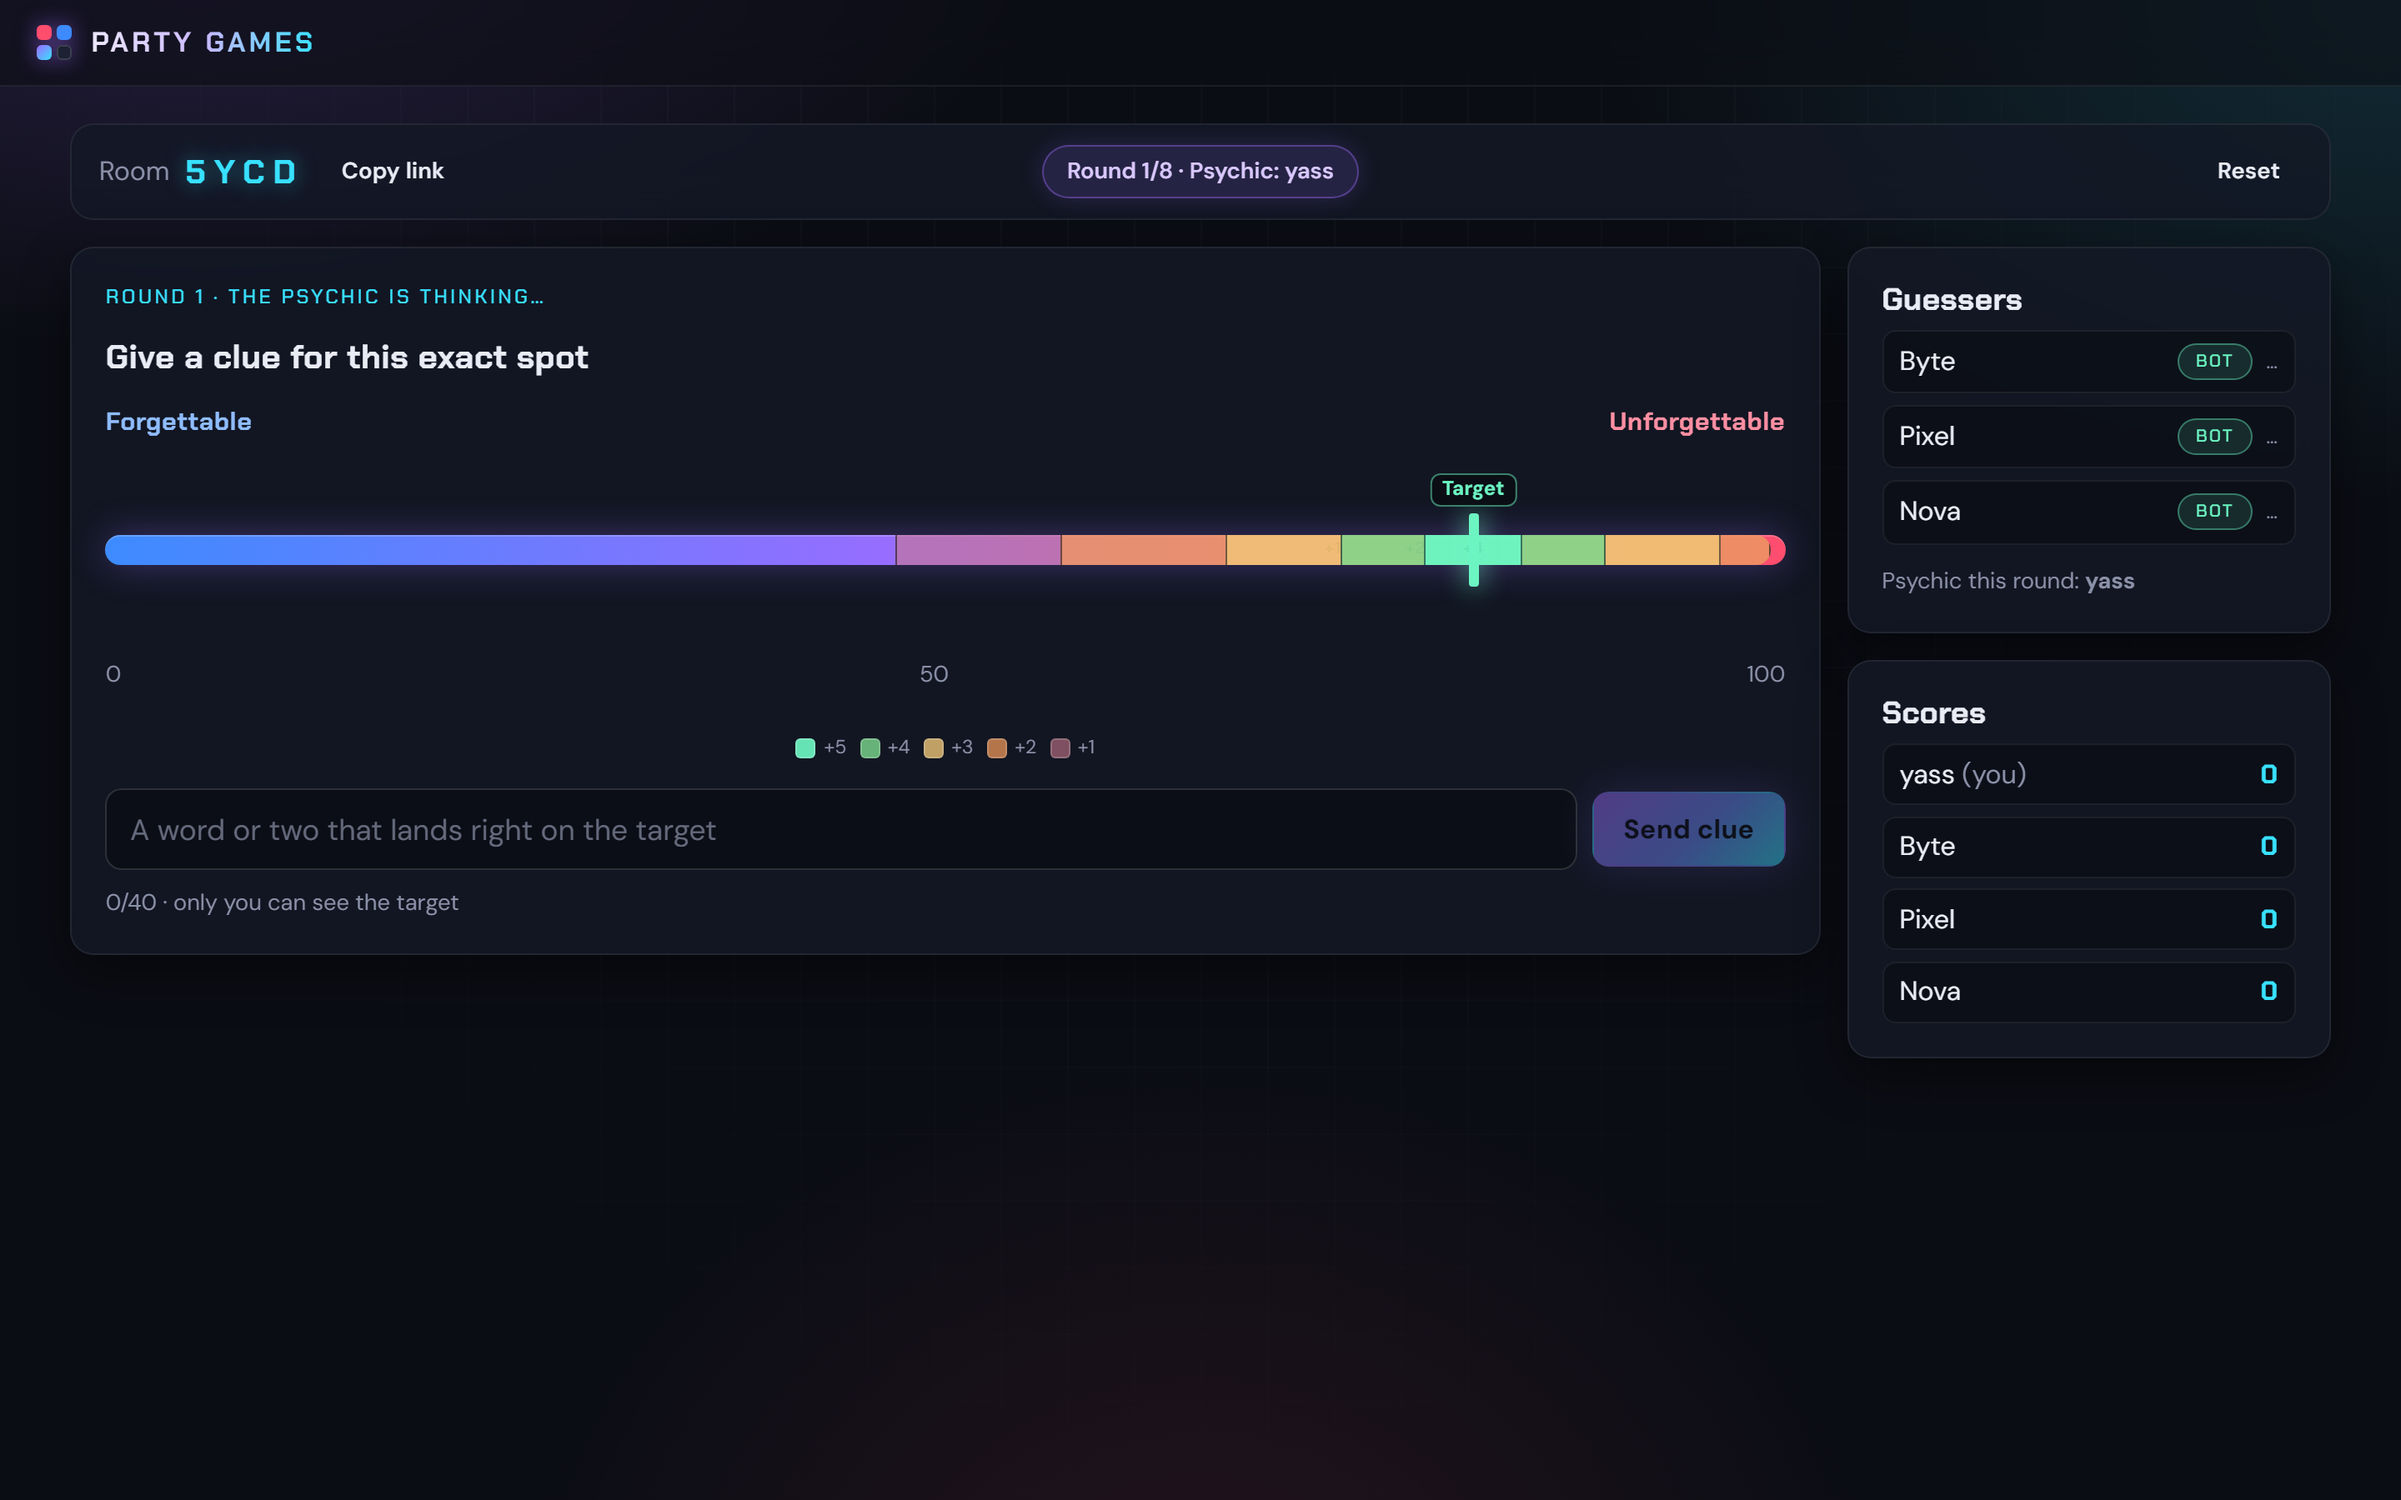
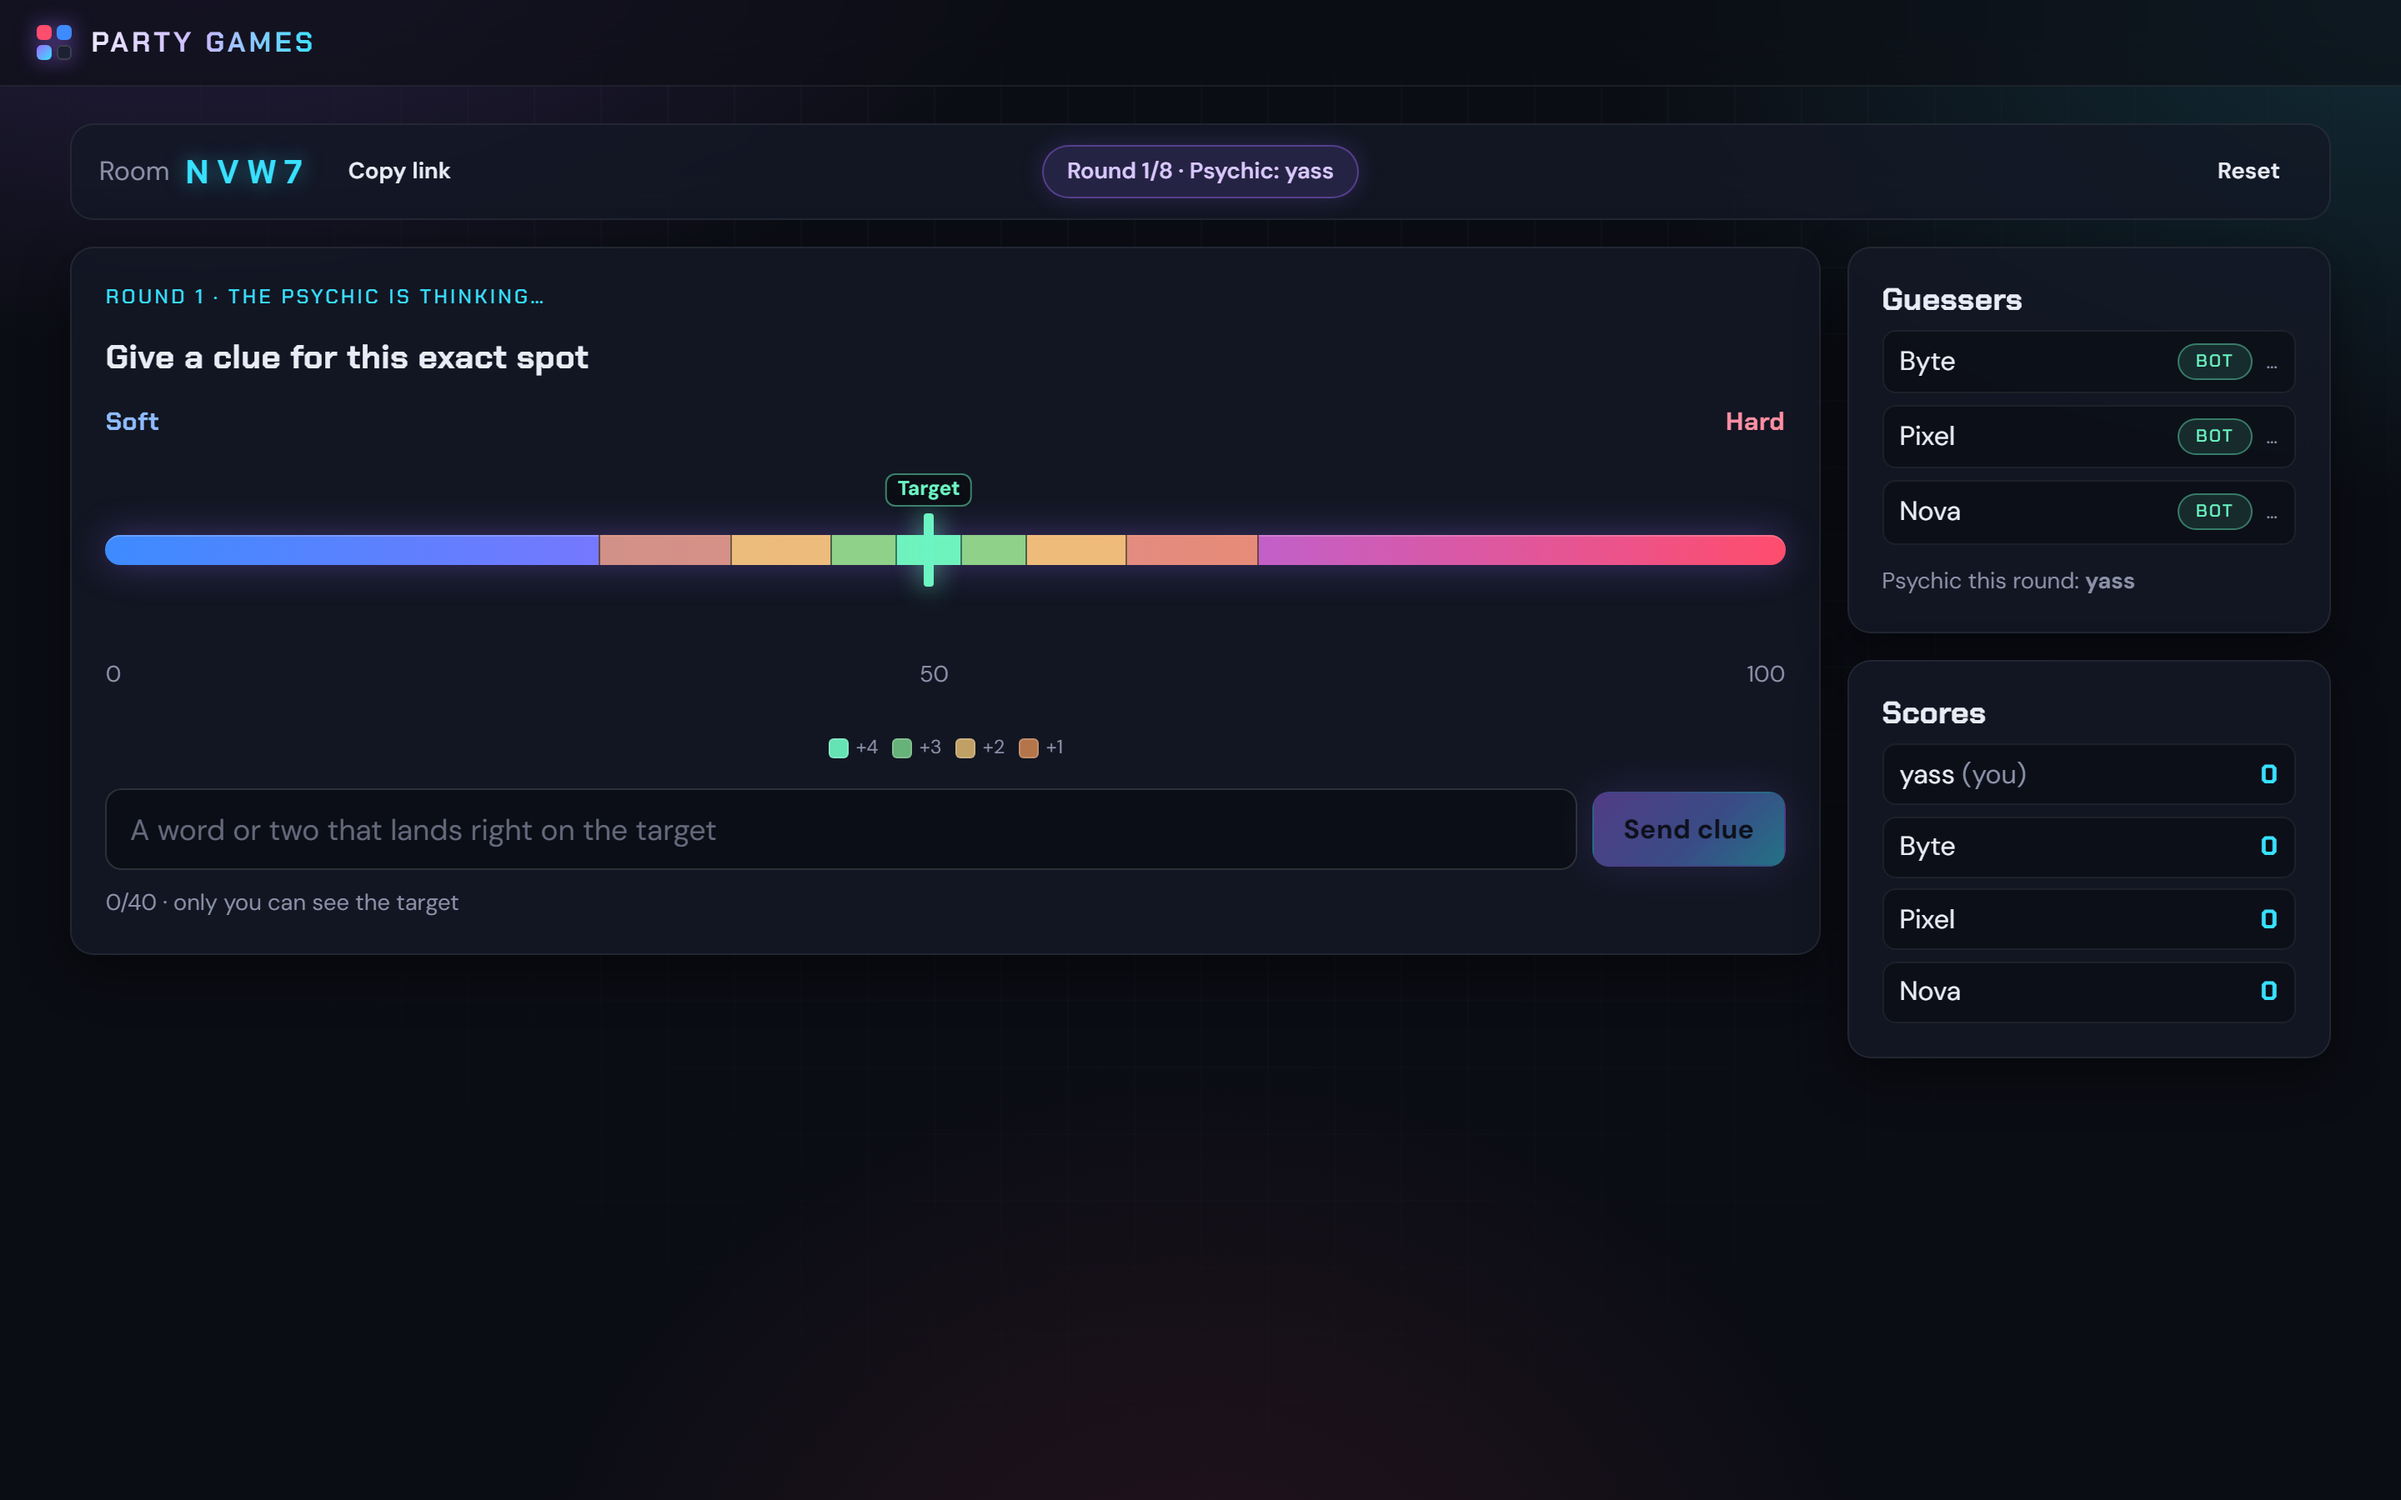
Spectrum: tighter scoring bands, max +4
Four bands instead of five, and much narrower: the bullseye is 2 wide
and scoring stops at 20, so only about 40% of the scale pays anything
(it was 70%). A clue now has to be precise to score well.

  <=2  +4      <=6  +3      <=12 +2      <=20 +1      else 0

The bands drawn on the bar, the legend, the rules page and the README
screenshot all follow the same table.

The Spectrum e2e kept its own copy of the scoring for assertions, which
silently disagreed once the table changed. It now reads the real table
out of logic.ts and fails loudly on any drift.

diff --git a/shared/spectrum/logic.test.ts b/shared/spectrum/logic.test.ts
@@ -96,13 +96,12 @@ describe('startGame / startRound', () => {
    * If the scoring changes, the picture must change with it — this test is the
    * tripwire that says so.
    */
-  it('scores by distance in five bands: 3, 8, 15, 25, 35', () => {
+  it('scores by distance in four tight bands: 2, 6, 12, 20', () => {
     const bands: Array<[number, number]> = [
-      [3, 5],
-      [8, 4],
-      [15, 3],
-      [25, 2],
-      [35, 1],
+      [2, 4],
+      [6, 3],
+      [12, 2],
+      [20, 1],
     ];
     for (const [reach, points] of bands) {
       expect(pointsForDistance(reach)).toBe(points);
@@ -110,8 +109,9 @@ describe('startGame / startRound', () => {
       // One step past the edge drops into the next band down.
       expect(pointsForDistance(reach + 1)).toBe(points - 1);
     }
-    expect(pointsForDistance(0)).toBe(5);
-    expect(pointsForDistance(36)).toBe(0);
+    expect(pointsForDistance(0)).toBe(4);
+    // Past the last band a guess is worth nothing: most of the scale is dead.
+    expect(pointsForDistance(21)).toBe(0);
     expect(pointsForDistance(100)).toBe(0);
   });
 
@@ -194,19 +194,19 @@ describe('guessing', () => {
     const s = guessing();
     const target = s.round!.target;
     const [g1, g2, g3] = s.round!.guesserIds;
-    let n = lockGuess(setGuess(s, g1, target), g1, T0); // 5 points
-    n = lockGuess(setGuess(n, g2, Math.min(100, target + 10)), g2, T0); // 3 points (or fewer if clamped)
+    let n = lockGuess(setGuess(s, g1, target), g1, T0); // exact hit: 4 points
+    n = lockGuess(setGuess(n, g2, Math.min(100, target + 10)), g2, T0); // 2 points (or fewer if clamped)
     expect(n.phase).toBe('guessing');
     n = lockGuess(setGuess(n, g3, target > 50 ? 0 : 100), g3, T0 + 5000); // 0 points (distance >= 50)
     expect(n.phase).toBe('reveal');
     const r = n.round!;
-    expect(r.points![g1]).toBe(5);
+    expect(r.points![g1]).toBe(4);
     expect(r.points![g2]).toBe(pointsForDistance(Math.min(100, target + 10) - target));
     expect(r.points![g3]).toBe(0);
     const avg = (r.points![g1] + r.points![g2] + r.points![g3]) / 3;
     expect(r.psychicPoints).toBe(Math.round(avg));
     expect(n.scores[r.psychicId]).toBe(Math.round(avg));
-    expect(n.scores[g1]).toBe(5);
+    expect(n.scores[g1]).toBe(4);
     expect(n.roundsPlayed).toBe(1);
     expect(r.revealEndsAt).toBe(T0 + 5000 + REVEAL_SECONDS * 1000);
   });
@@ -229,26 +229,24 @@ describe('guessing', () => {
     expect(guessTimeUp(n, T0 + 59_000)).toBe(n);
     const r = guessTimeUp(n, T0 + 60_000);
     expect(r.phase).toBe('reveal');
-    expect(r.round!.points![g1]).toBe(5);
+    expect(r.round!.points![g1]).toBe(4);
     expect(Object.values(r.round!.points!).filter((p) => p === 0)).toHaveLength(2);
     // Psychic average only counts guessers who actually guessed.
-    expect(r.round!.psychicPoints).toBe(5);
+    expect(r.round!.psychicPoints).toBe(4);
   });
 });
 
 describe('scoring table', () => {
   it('maps distance to points', () => {
-    expect(pointsForDistance(0)).toBe(5);
-    expect(pointsForDistance(3)).toBe(5);
-    expect(pointsForDistance(-4)).toBe(4);
-    expect(pointsForDistance(8)).toBe(4);
-    expect(pointsForDistance(9)).toBe(3);
-    expect(pointsForDistance(15)).toBe(3);
-    expect(pointsForDistance(16)).toBe(2);
-    expect(pointsForDistance(25)).toBe(2);
-    expect(pointsForDistance(26)).toBe(1);
-    expect(pointsForDistance(35)).toBe(1);
-    expect(pointsForDistance(36)).toBe(0);
+    expect(pointsForDistance(0)).toBe(4);
+    expect(pointsForDistance(2)).toBe(4);
+    expect(pointsForDistance(-3)).toBe(3);
+    expect(pointsForDistance(6)).toBe(3);
+    expect(pointsForDistance(7)).toBe(2);
+    expect(pointsForDistance(12)).toBe(2);
+    expect(pointsForDistance(13)).toBe(1);
+    expect(pointsForDistance(20)).toBe(1);
+    expect(pointsForDistance(21)).toBe(0);
     expect(pointsForDistance(100)).toBe(0);
   });
 });

diff --git a/client/src/games/spectrum/spectrum.css b/client/src/games/spectrum/spectrum.css
@@ -504,25 +504,21 @@
   border-right: 1px solid rgba(11, 13, 20, 0.55);
 }
 
-/* Green at the bullseye through to grey at the edge: closer is better. */
-.spectrum-band.band-5 {
+/* Green at the bullseye through to pink at the edge: closer is better. */
+.spectrum-band.band-4 {
   background: rgba(108, 245, 194, 0.92);
 }
 
-.spectrum-band.band-4 {
+.spectrum-band.band-3 {
   background: rgba(122, 214, 140, 0.82);
 }
 
-.spectrum-band.band-3 {
+.spectrum-band.band-2 {
   background: rgba(242, 200, 121, 0.78);
 }
 
-.spectrum-band.band-2 {
-  background: rgba(245, 155, 90, 0.72);
-}
-
 .spectrum-band.band-1 {
-  background: rgba(200, 120, 140, 0.6);
+  background: rgba(245, 155, 90, 0.72);
 }
 
 .spectrum-band-score {
@@ -535,11 +531,12 @@
 }
 
 /*
- * The bullseye band is only 6% of the track wide and the target pin sits right
- * on top of it, so its number is unreadable. Drop it — the legend names the
- * colour, and the pin already marks the spot.
+ * The inner bands are far too narrow for a number now (the bullseye is 4% of
+ * the track and sits under the target pin), so they go unlabelled. The legend
+ * names every colour.
  */
-.spectrum-band.band-5 .spectrum-band-score {
+.spectrum-band.band-4 .spectrum-band-score,
+.spectrum-band.band-3 .spectrum-band-score {
   display: none;
 }
 
@@ -569,22 +566,18 @@
   border: 1px solid rgba(255, 255, 255, 0.18);
 }
 
-.spectrum-band-key-swatch.band-5 {
+.spectrum-band-key-swatch.band-4 {
   background: rgba(108, 245, 194, 0.92);
 }
 
-.spectrum-band-key-swatch.band-4 {
+.spectrum-band-key-swatch.band-3 {
   background: rgba(122, 214, 140, 0.82);
 }
 
-.spectrum-band-key-swatch.band-3 {
+.spectrum-band-key-swatch.band-2 {
   background: rgba(242, 200, 121, 0.78);
 }
 
-.spectrum-band-key-swatch.band-2 {
-  background: rgba(245, 155, 90, 0.72);
-}
-
 .spectrum-band-key-swatch.band-1 {
-  background: rgba(200, 120, 140, 0.6);
+  background: rgba(245, 155, 90, 0.72);
 }

diff --git a/shared/spectrum/logic.ts b/shared/spectrum/logic.ts
@@ -45,14 +45,19 @@ export function setSettings(state: SpectrumState, rounds: number): SpectrumState
   return { ...state, settings: { ...state.settings, rounds } };
 }
 
-/** Points for a guess at the given distance from the target. */
+/**
+ * Points for a guess at the given distance from the target.
+ *
+ * Four bands, deliberately tight: the bullseye is 2 wide and scoring stops at
+ * 20, so a little over a third of the scale pays anything at all. A clue has to
+ * be genuinely precise to land +4, and a vague one scores nothing.
+ */
 export function pointsForDistance(distance: number): number {
   const d = Math.abs(distance);
-  if (d <= 3) return 5;
-  if (d <= 8) return 4;
-  if (d <= 15) return 3;
-  if (d <= 25) return 2;
-  if (d <= 35) return 1;
+  if (d <= 2) return 4;
+  if (d <= 6) return 3;
+  if (d <= 12) return 2;
+  if (d <= 20) return 1;
   return 0;
 }
 

diff --git a/client/src/games/spectrum/SpectrumEntry.tsx b/client/src/games/spectrum/SpectrumEntry.tsx
@@ -29,8 +29,9 @@ export default function SpectrumEntry() {
             adjusting until you lock.
           </>,
           <>
-            On the reveal, the closer your needle, the better: within 3 scores 5 points, within 8 scores 4, within 15
-            scores 3, within 25 scores 2, and within 35 scores 1.
+            On the reveal, the closer your needle, the better: within 2 scores 4 points, within 6 scores 3, within 12
+            scores 2, and within 20 scores 1. Miss by more than 20 and you score nothing, so the bands are tight and a
+            vague clue is worth very little.
           </>,
           <>
             The psychic scores the average of everyone&apos;s points, rounded off, so a clue that works for the whole room

diff --git a/client/src/games/spectrum/SpectrumBar.tsx b/client/src/games/spectrum/SpectrumBar.tsx
@@ -16,11 +16,10 @@ export interface BarMarker {
  * away from the rules.
  */
 const BANDS = [
-  { points: 5, reach: 3 },
-  { points: 4, reach: 8 },
-  { points: 3, reach: 15 },
-  { points: 2, reach: 25 },
-  { points: 1, reach: 35 },
+  { points: 4, reach: 2 },
+  { points: 3, reach: 6 },
+  { points: 2, reach: 12 },
+  { points: 1, reach: 20 },
 ] as const;
 
 interface Props {

diff --git a/client/src/games/spectrum/SpectrumPlay.tsx b/client/src/games/spectrum/SpectrumPlay.tsx
@@ -259,7 +259,7 @@ function Guesser({
 function BandKey() {
   return (
     <div className="spectrum-band-key">
-      {[5, 4, 3, 2, 1].map((points) => (
+      {[4, 3, 2, 1].map((points) => (
         <span key={points} className="spectrum-band-key-item">
           <span className={`spectrum-band-key-swatch band-${points}`} />+{points}
         </span>
